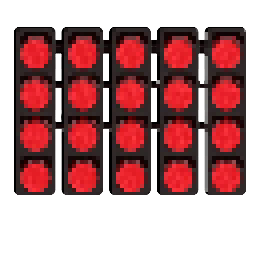
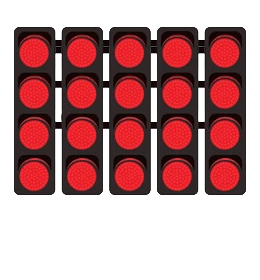
reset light images and added new font and starting sounds and gif and tyre wear and borders

Changed region(s): [[0.0308, 0.0857, 0.9538, 0.6857]]

diff --git a/assignment.py b/assignment.py
@@ -99,6 +99,8 @@ lights4 = pygame.transform.scale(pygame.image.load("lights4.png"), (520,560))
 lights = -1
 lightsOut = False
 lightSound = pygame.mixer.Sound(os.path.join("lightSound.mp3"))
+awayWeGo = pygame.mixer.Sound(os.path.join("lightsout.mp3"))
+
 lightPlay = True
 
 car2 = pygame.image.load("car2.png")
@@ -117,6 +119,8 @@ lap1time = 0
 lap2time = 0
 lap3time = 0
 font = pygame.font.Font(os.path.join(script_dir, "font.otf"), 28)
+numberFont = pygame.font.Font(os.path.join(script_dir, "numbers.ttf"), 28)
+
 DRS = False
 carDRS = pygame.image.load("FerrariDRS.png")
 FLTW = 99
@@ -130,7 +134,7 @@ RLTWC = tyresG
 
 RRTW = 99
 RRTWC = tyresG
-
+tyresintact = True
 i = 0
 
 gamestate = "main"
@@ -151,6 +155,7 @@ while True:
                 if 300 < mouseX < 940 and 270 < mouseY < 370:
                     gamestate = "start"
                     lightSound.play()
+                    print("sound")
 
     if ev.type == pygame.KEYDOWN:  
         if ev.key == pygame.K_SPACE:  
@@ -188,7 +193,7 @@ while True:
 
         keys = pygame.key.get_pressed()
 
-        if lightsOut:
+        if lightsOut and speed > 0:
             if keys[pygame.K_a]:
                 angle+=3
                 FLTW -= 0.01
@@ -202,8 +207,10 @@ while True:
         yTravelled = round(speed * -math.sin(angleRadians) ,0)
         # End Reference #1
         
-        trackX += xTravelled
-        trackY += yTravelled
+        if -12142.0 < (trackX + xTravelled) < 0:
+            trackX += xTravelled
+        if -6347.0 < (trackY + yTravelled) < 0:
+            trackY += yTravelled
 
         if keys[pygame.K_1]:
             car =   Mclaren
@@ -240,23 +247,30 @@ while True:
             if speed > 0:
                 speed -= 0.1
 
-        if keys[pygame.K_w] and lightsOut:
+        if FLTW <= 0 or FRTW <= 0 or RLTW <= 0 or RRTW <= 0:
+            tyresintact = False
+
+        if keys[pygame.K_w] and lightsOut and tyresintact:
             if speed < maxSpeed:
                 speed += 0.1
             if RRTW >= 0 and RLTW >= 0:
-                RLTW -= 0.01
-                RRTW -= 0.01
+                if DRS:
+                    RLTW -= 0.02
+                    RRTW -= 0.02
+                else:
+                    RLTW -= 0.01
+                    RRTW -= 0.01
         else:
             if speed > 0:
                 speed -= 0.1
         
-
-        if DRS:
-            if keys[pygame.K_w] and speed < maxSpeed +5:
-                speed += 0.2
-        else:
-            if speed > maxSpeed:
-                speed -= 0.1
+        if tyresintact and lightsOut:
+            if DRS:
+                if keys[pygame.K_w] and speed < maxSpeed +5:
+                    speed += 0.2
+            else:
+                if speed > maxSpeed:
+                    speed -= 0.1
 
         if (round(trackX,0)) < -6600.0 and (round(trackX,0)) > -6650.0 and trackY > -6347 and trackY < -6034 and not crossing:
             lap += 1
@@ -276,7 +290,7 @@ while True:
 
 
         screen.blit(f1font2.render(("lap # " + str(lap)), True, (255, 255, 255)) , (20, 20)) 
-        screen.blit(f1font2.render((str(int(20*speed))) + " km/h", True, (255, 255, 255)) , (600, 20)) 
+        screen.blit(numberFont.render((str(int(20*speed))), True, (255, 255, 255)) , (600, 20)) 
         
         screen.blit(f1font2.render(("lap 1: " +str(lap1time)), True, ("white")) , (1050, 20))
         if lap2time > 0:
@@ -369,14 +383,18 @@ while True:
             
         if lights <= 3:
             lights += random.uniform(0.01, 0.02)
-        else:
+        elif lights < 99:
             lightsOut == True
+            if not pygame.mixer.music.get_busy():
+                awayWeGo.play()
+            lights = 100
 
 
         minimapX = trackX / -50 + 25
         minimapY = trackY / -50 + 560
         pygame.draw.circle(screen, (255,0,0),(minimapX,minimapY ), 7)
         speed = round(speed,1)
+
 
     mouseX, mouseY = pygame.mouse.get_pos()
 
@@ -396,7 +414,7 @@ while True:
 
         screen.blit(f1font.render('Settings', True, ("black")) , (440, 450)) 
         screen.blit(f1font.render('Race', True, ("black")) , (520, 290))
-        
+    print(trackX,trackY)
     pygame.display.flip()
     clock.tick(60)
 
